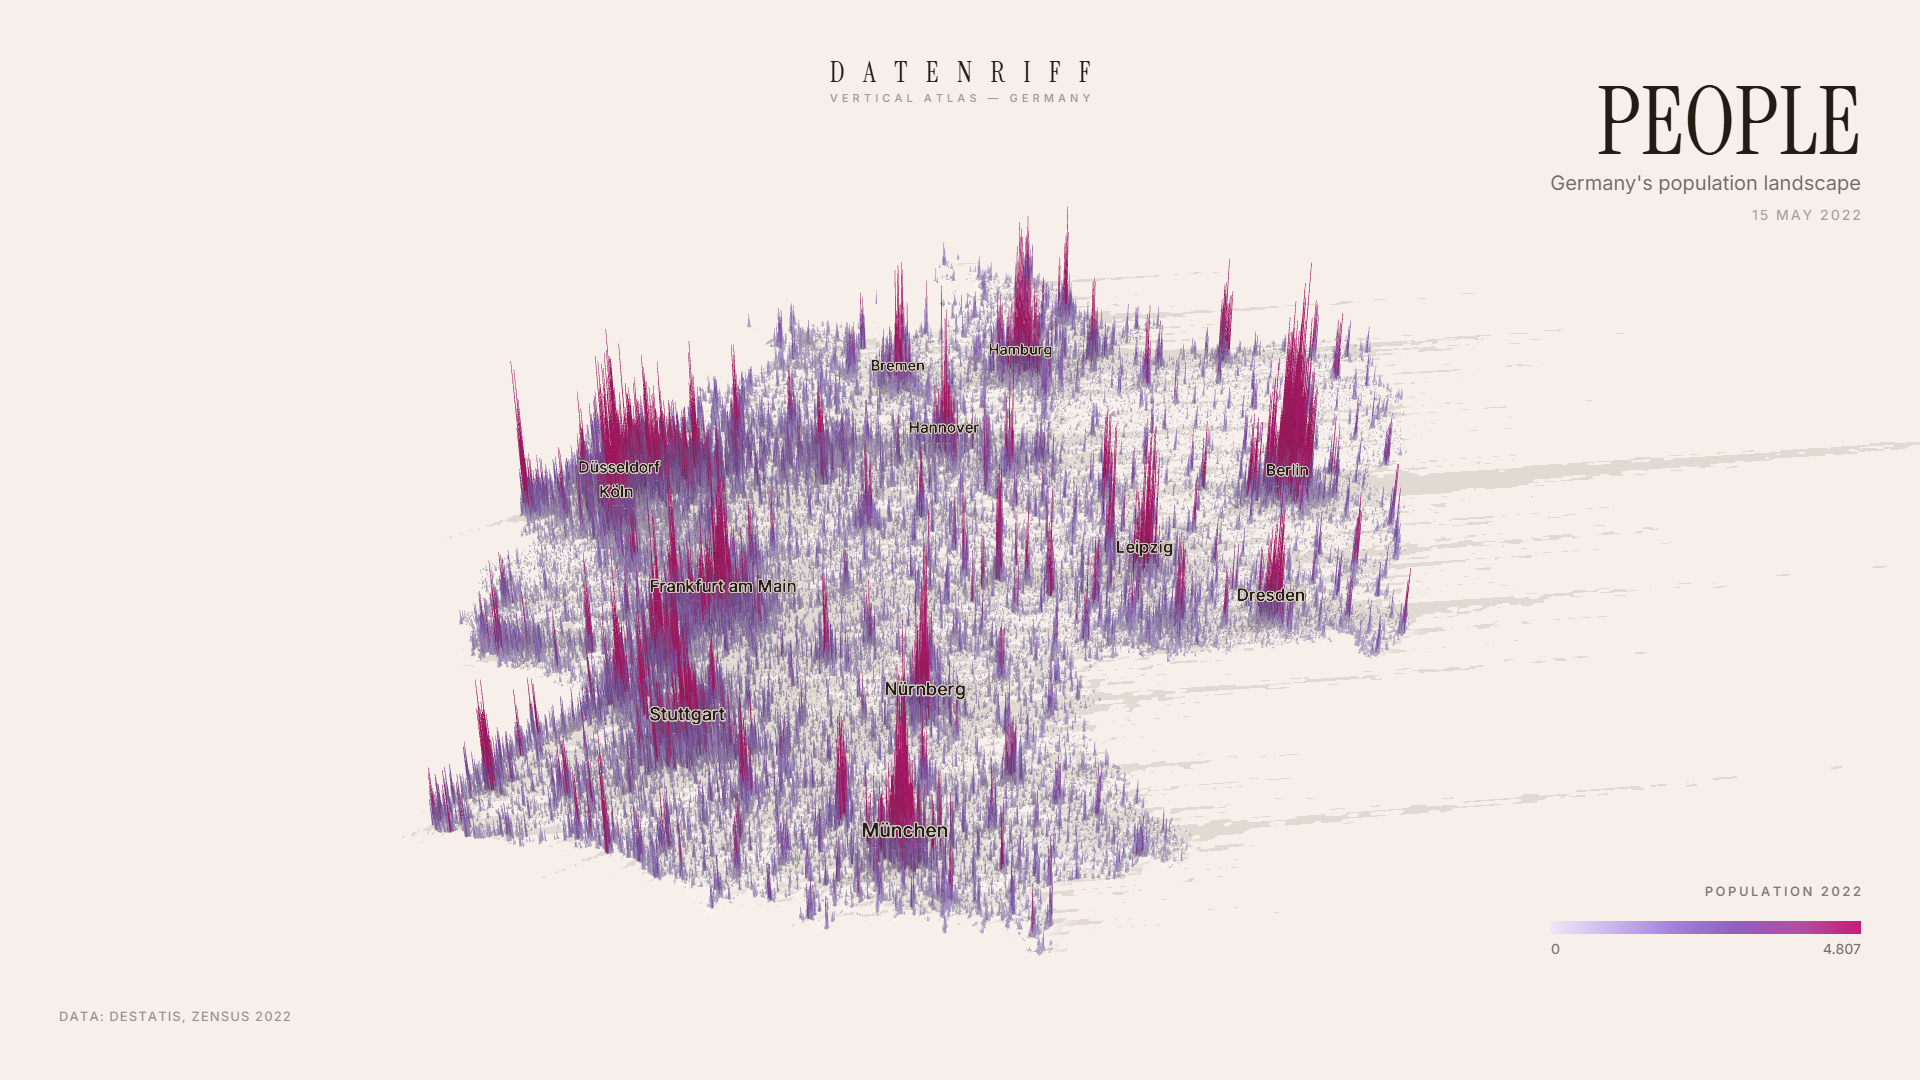
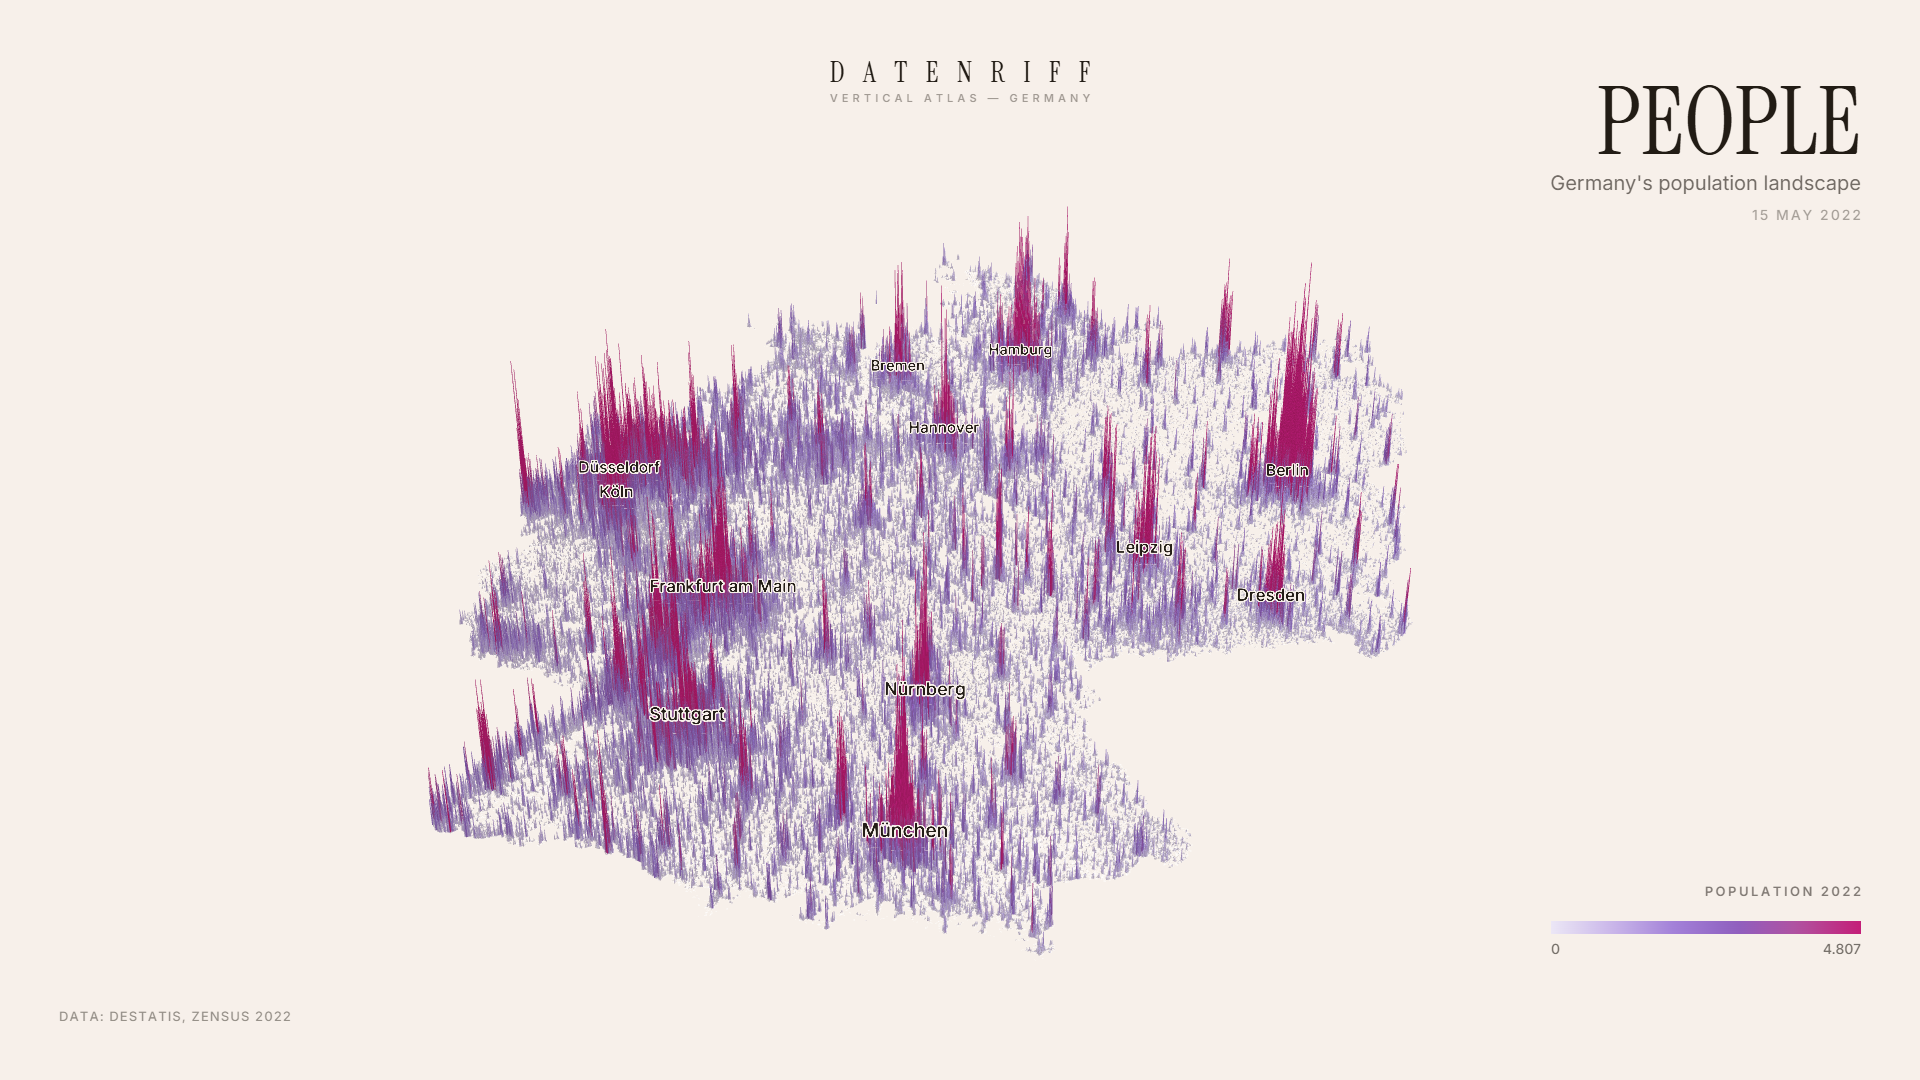
light: no cast shadows, and no shadow pass either
Measured before deciding: the light angle is almost inert — 45° against 76°
moves 0.2 to 0.5 per cent of the frame — while strength moves 9. The reason
is the technique, not the settings. deck sizes the shadow map to the canvas
and the light's frustum spans the whole country, so one texel is several
hundred metres, wider than the columns casting into it. What lands on the
paper is a smear east of the country instead of a pool at each foot.

Shadows are off by default now. The switch stays, so they come back without
a code change, and `shadowPassPossible` returns false with them rather than
rendering a pass and hiding it behind zero alpha — that pass roughly doubles
the geometry cost per frame.

Two places claimed otherwise and would have become untrue: the about page
said in both languages that the shadows anchor the needles, and the
architecture table said the same. Both now say what happens and why.

The readme hero was exported with shadows, so it no longer showed the app;
re-exported.

diff --git a/apps/web/public/ueber/index.html b/apps/web/public/ueber/index.html
@@ -60,7 +60,7 @@
       <h2>Warum Säulen und keine eingefärbte Karte</h2>
       <p>Eine Choroplethenkarte — Landkreise in fünf Farbstufen — beantwortet eine Frage schlecht, die hier die wichtigste ist: wie viel wovon, und wo genau. Farbe kann etwa sieben Stufen sicher unterscheiden, Fläche verzerrt (ein leerer Landkreis ist groß, ein voller klein), und Grenzen erfinden Kanten, die es in den Daten nicht gibt.</p>
       <p>Höhe kann mehr. Das Auge liest Silhouetten sehr genau, vergleicht Nachbarn ohne Legende und erkennt Muster, für die eine Farbskala zu grob ist. Deshalb trägt die Höhe immer die Menge — Einwohner, Wohnungen, Millimeter Regen — und die Farbe eine zweite, unabhängige Eigenschaft. Man sieht beides gleichzeitig, ohne zwischen zwei Karten zu springen.</p>
-      <p>Der Preis ist die Perspektive: Säulen verdecken einander, und was hinten steht, ist kleiner. Deshalb kippt die Kamera je nach Modus, deshalb kann man drehen und zoomen, und deshalb steht die Skulptur auf Papier statt auf einem Sockel — die Schatten fallen auf die Ebene und verankern die Nadeln, ohne eine Kiste um das Land zu ziehen.</p>
+      <p>Der Preis ist die Perspektive: Säulen verdecken einander, und was hinten steht, ist kleiner. Deshalb kippt die Kamera je nach Modus, deshalb kann man drehen und zoomen, und deshalb steht die Skulptur auf Papier statt auf einem Sockel, ohne eine Kiste um das Land zu ziehen. Schatten wirft sie keine: ein Schattenwurf über ein ganzes Nadelfeld wird bei Landesansicht zu einem Schleier statt zu einer Pfütze an jedem Fuß. Wer sie sehen will, schaltet sie in den Einstellungen ein.</p>
     </section>
 
     <section id="zellen">

diff --git a/apps/web/public/about/index.html b/apps/web/public/about/index.html
@@ -60,7 +60,7 @@
       <h2>Why columns and not a coloured map</h2>
       <p>A choropleth — districts in five shades — answers the central question badly: how much of what, and exactly where. Colour separates about seven steps reliably, area misleads (an empty district is large, a crowded one small), and administrative borders invent edges that the data does not have.</p>
       <p>Height carries more. The eye reads silhouettes precisely, compares neighbours without consulting a legend, and picks up patterns too fine for a colour ramp. So height always carries the quantity — people, dwellings, millimetres of rain — and colour carries a second, independent property. You see both at once instead of moving between two maps.</p>
-      <p>The cost is perspective: columns hide each other, and what stands behind looks smaller. That is why the camera tilts differently per mode, why you can rotate and zoom, and why the sculpture stands on paper rather than a plinth — the shadows fall onto the plane and anchor the needles without drawing a box around the country.</p>
+      <p>The cost is perspective: columns hide each other, and what stands behind looks smaller. That is why the camera tilts differently per mode, why you can rotate and zoom, and why the sculpture stands on paper rather than a plinth, without drawing a box around the country. It casts no shadows: over a whole field of needles at country scale, a cast shadow becomes a haze rather than a pool at each foot. They can be switched on in the settings.</p>
     </section>
 
     <section id="cells">

diff --git a/apps/web/src/sculpture/quality.ts b/apps/web/src/sculpture/quality.ts
@@ -71,6 +71,11 @@ export function shadowsEnabled(profile: QualityProfile, setting: Tri = 'auto'): 
  *  on/off is only the shadow ink, which needs no reload. */
 export function shadowPassPossible(profile: QualityProfile, setting: Tri = 'auto'): boolean {
   if (launchParam('shadows') === '0') return false;
+  // 'off' skips the pass entirely rather than rendering it and hiding the
+  // result behind zero alpha — it roughly doubles the geometry cost. Asking
+  // for shadows afterwards reloads the page once (SculptureView), which is
+  // the path a phone already took.
+  if (setting === 'off') return false;
   return profile.shadows || setting === 'on';
 }
 

diff --git a/apps/web/src/state/settings.ts b/apps/web/src/state/settings.ts
@@ -20,7 +20,12 @@ export interface Settings {
 }
 
 export const DEFAULT_SETTINGS: Settings = {
-  shadows: 'auto',
+  // Off (owner, 20 August). A shadow map sized to the canvas cannot resolve
+  // a forest of needles at country zoom: what it draws is a smear east of
+  // the country rather than a pool at each foot, and no angle or strength
+  // fixes that — only the technique would. The switch stays, so it can come
+  // back without a code change.
+  shadows: 'off',
   border: false,
   borderColor: '#221c15',
   shadowStrength: 0.22,

diff --git a/docs/architecture.md b/docs/architecture.md
@@ -76,7 +76,7 @@ flowchart TB
 | Height | always linear; the country level is calibrated as `targetMax / p99.5`, the fine levels are derived from it per unit area |
 | Colour | sqrt/log1p for quantities, diverging for change, categorical plus dominance; ramps switchable as an option |
 | Basemap | none — off-white canvas with a subtle country outline |
-| Lighting | ambient + warm key + cool fill; one stable effect, shadows cast onto a paper-coloured ground plane |
+| Lighting | ambient + warm key + cool fill; one stable effect. Cast shadows are off by default — a shadow map sized to the canvas cannot resolve a needle field at country zoom — and the pass is skipped with them |
 | Camera | pitch ≈ 58, bearing ≈ −18, fovy ≈ 24 |
 | Hosting | static-first: Vite build + binary assets + CDN; a backend only for live data |
 | Preprocessing | Python; standard library core plus pyproj and h3 |
